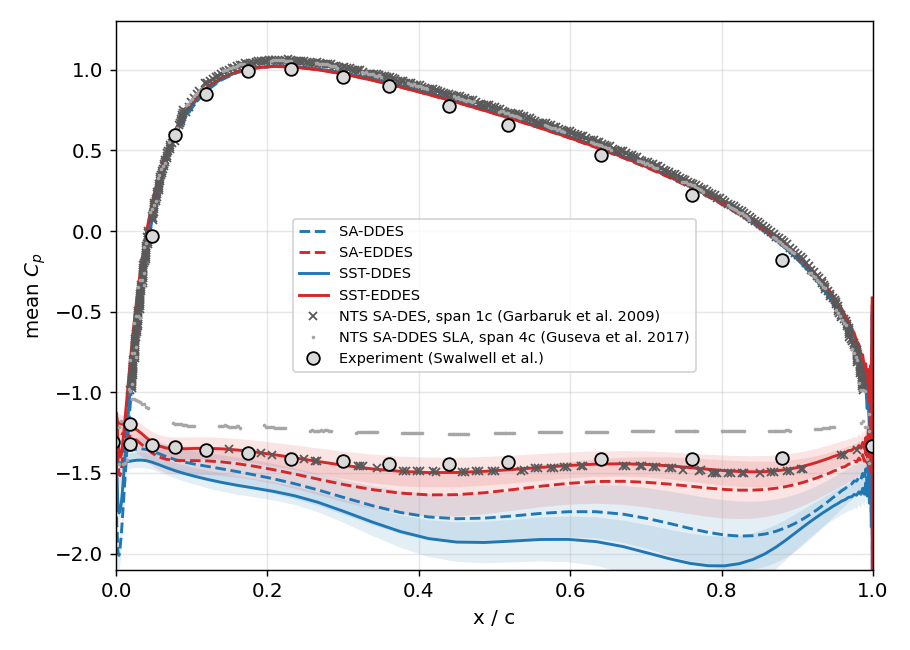
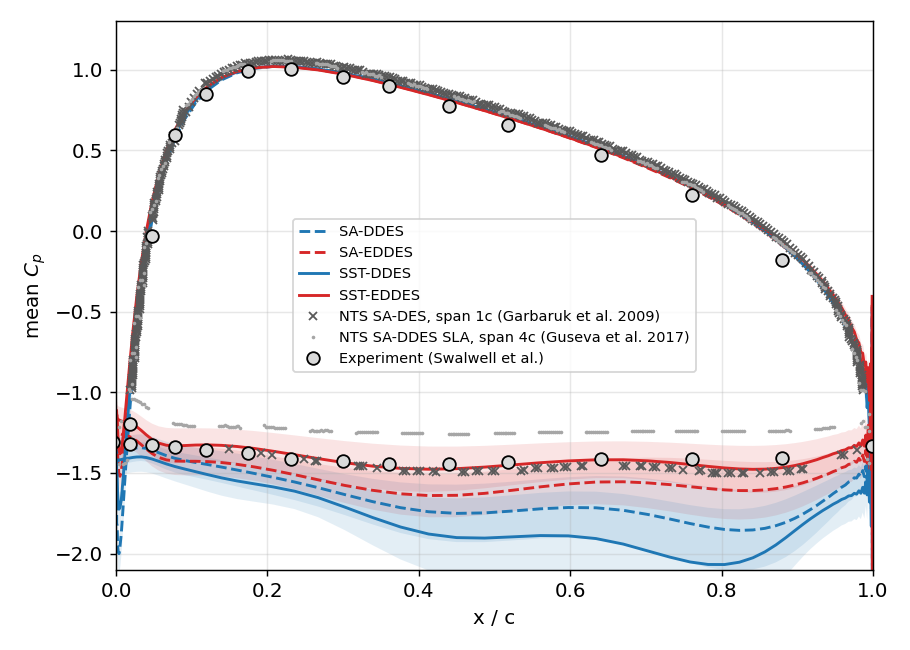
Average all NACA 0021 hybrid RANS/LES runs over the same 520 c/U
Claude-Session: https://claude.ai/code/session_013YFdgQwrRqCQ2ihG446aNe

diff --git a/_vandv/NACA0021_DDES.md b/_vandv/NACA0021_DDES.md
@@ -41,7 +41,7 @@ Numerical settings:
 - Time step 0.025 c/U with `DUAL_TIME_STEPPING-2ND_ORDER` and 50 inner iterations per time step. Guseva et al. use 0.03 c/U.
 - Mean flow: `JST` central scheme. Turbulence: first-order `SCALAR_UPWIND`. Green-Gauss gradients.
 - Each run starts from a steady RANS solution of the same turbulence model. SA-EDDES starts from the developed flow of an earlier SA-EDDES run.
-- The first 100 c/U are left out of the statistics as start-up transient (20 c/U for SA-EDDES).
+- The first 100 c/U are left out of the statistics as start-up transient (20 c/U for SA-EDDES). All runs are then averaged over the same time, 520 c/U.
 
 The configuration file is [available here](/vandv_files/NACA0021_DDES/naca0021_hybrid.cfg). Its header lists the lines to change for each model.
 
@@ -63,7 +63,7 @@ The reference computations of Guseva et al. use a finer O-grid with a span of 4 
 
 ## Results
 
-All results are averages in time and along the span. The error bars and bands are standard errors of the mean, computed from blocks of 50 c/U. The length of the statistics is given in the figures. Garbaruk et al. (2009) estimate that a span of 1 chord needs about 2400 c/U for a 1% error in the mean forces, so a few percent of statistical error remains here.
+All results are averages in time and along the span. The error bars and bands are standard errors of the mean, computed from blocks of 50 c/U. Garbaruk et al. (2009) estimate that a span of 1 chord needs about 2400 c/U for a 1% error in the mean forces, so a few percent of statistical error remains here.
 
 ### Mean forces
 
@@ -74,15 +74,15 @@ All results are averages in time and along the span. The error bars and bands ar
 
 | Run | Statistics (c/U) | Mean C_L | Mean C_D | RMS of sectional C_L | Shedding Strouhal number |
 | --- | --- | --- | --- | --- | --- |
-| SA-DDES | 644 | 1.09 ± 0.03 | 1.83 ± 0.06 | 0.31 | 0.18 |
-| SA-EDDES | 524 | 1.01 ± 0.03 | 1.72 ± 0.05 | 0.25 | 0.19 |
-| SST-DDES | 1051 | 1.14 ± 0.02 | 1.95 ± 0.05 | 0.35 | 0.17 |
-| SST-EDDES | 926 | 0.97 ± 0.02 | 1.63 ± 0.03 | 0.24 | 0.19 |
+| SA-DDES | 520 | 1.08 ± 0.04 | 1.81 ± 0.07 | 0.30 | 0.18 |
+| SA-EDDES | 520 | 1.02 ± 0.03 | 1.72 ± 0.05 | 0.25 | 0.19 |
+| SST-DDES | 520 | 1.12 ± 0.05 | 1.94 ± 0.09 | 0.35 | 0.17 |
+| SST-EDDES | 520 | 0.96 ± 0.03 | 1.62 ± 0.05 | 0.25 | 0.19 |
 | DES, span 1 c (Garbaruk et al. 2009) | – | 0.97 – 1.01 | 1.59 – 1.62 | 0.22 – 0.24 | about 0.2 |
 | Experiment (Swalwell et al.) | – | 0.93 | 1.52 | 0.10 | 0.20 |
 
 - The two EDDES runs agree with the published DES at the same span, within about 7% in drag.
-- The two DDES runs give 8 to 23% more lift and drag than the published DES, and larger fluctuations. With SST, the difference between DDES and EDDES is more than 5 standard errors, so it is not a statistical effect.
+- The two DDES runs give 7 to 22% more lift and drag than the published DES, and larger fluctuations. With SST, the difference between DDES and EDDES is about 3 standard errors, so it is unlikely to be a statistical effect.
 - All runs give more lift and drag than the experiment. This is expected with a span of 1 chord: the published DES at the same span show the same trend.
 
 ### Mean pressure coefficient
@@ -118,7 +118,7 @@ All results are averages in time and along the span. The error bars and bands ar
 
 - One mesh, with a span of 1 chord. The published reference uses 4 chords. A run with a span of 4 chords has been started.
 - The `JST` scheme without a low-dissipation option damps the small eddies more than the schemes of the reference computations.
-- The statistics cover 520 to 1050 c/U. The mean forces still have a statistical error of 2 to 3%.
+- The statistics cover 520 c/U for each run. The mean forces still have a statistical error of 3 to 5%. The SST runs were continued further (to about 1000 c/U): over the longer time, their mean forces change by less than 0.02, within this error.
 
 ## References
 
